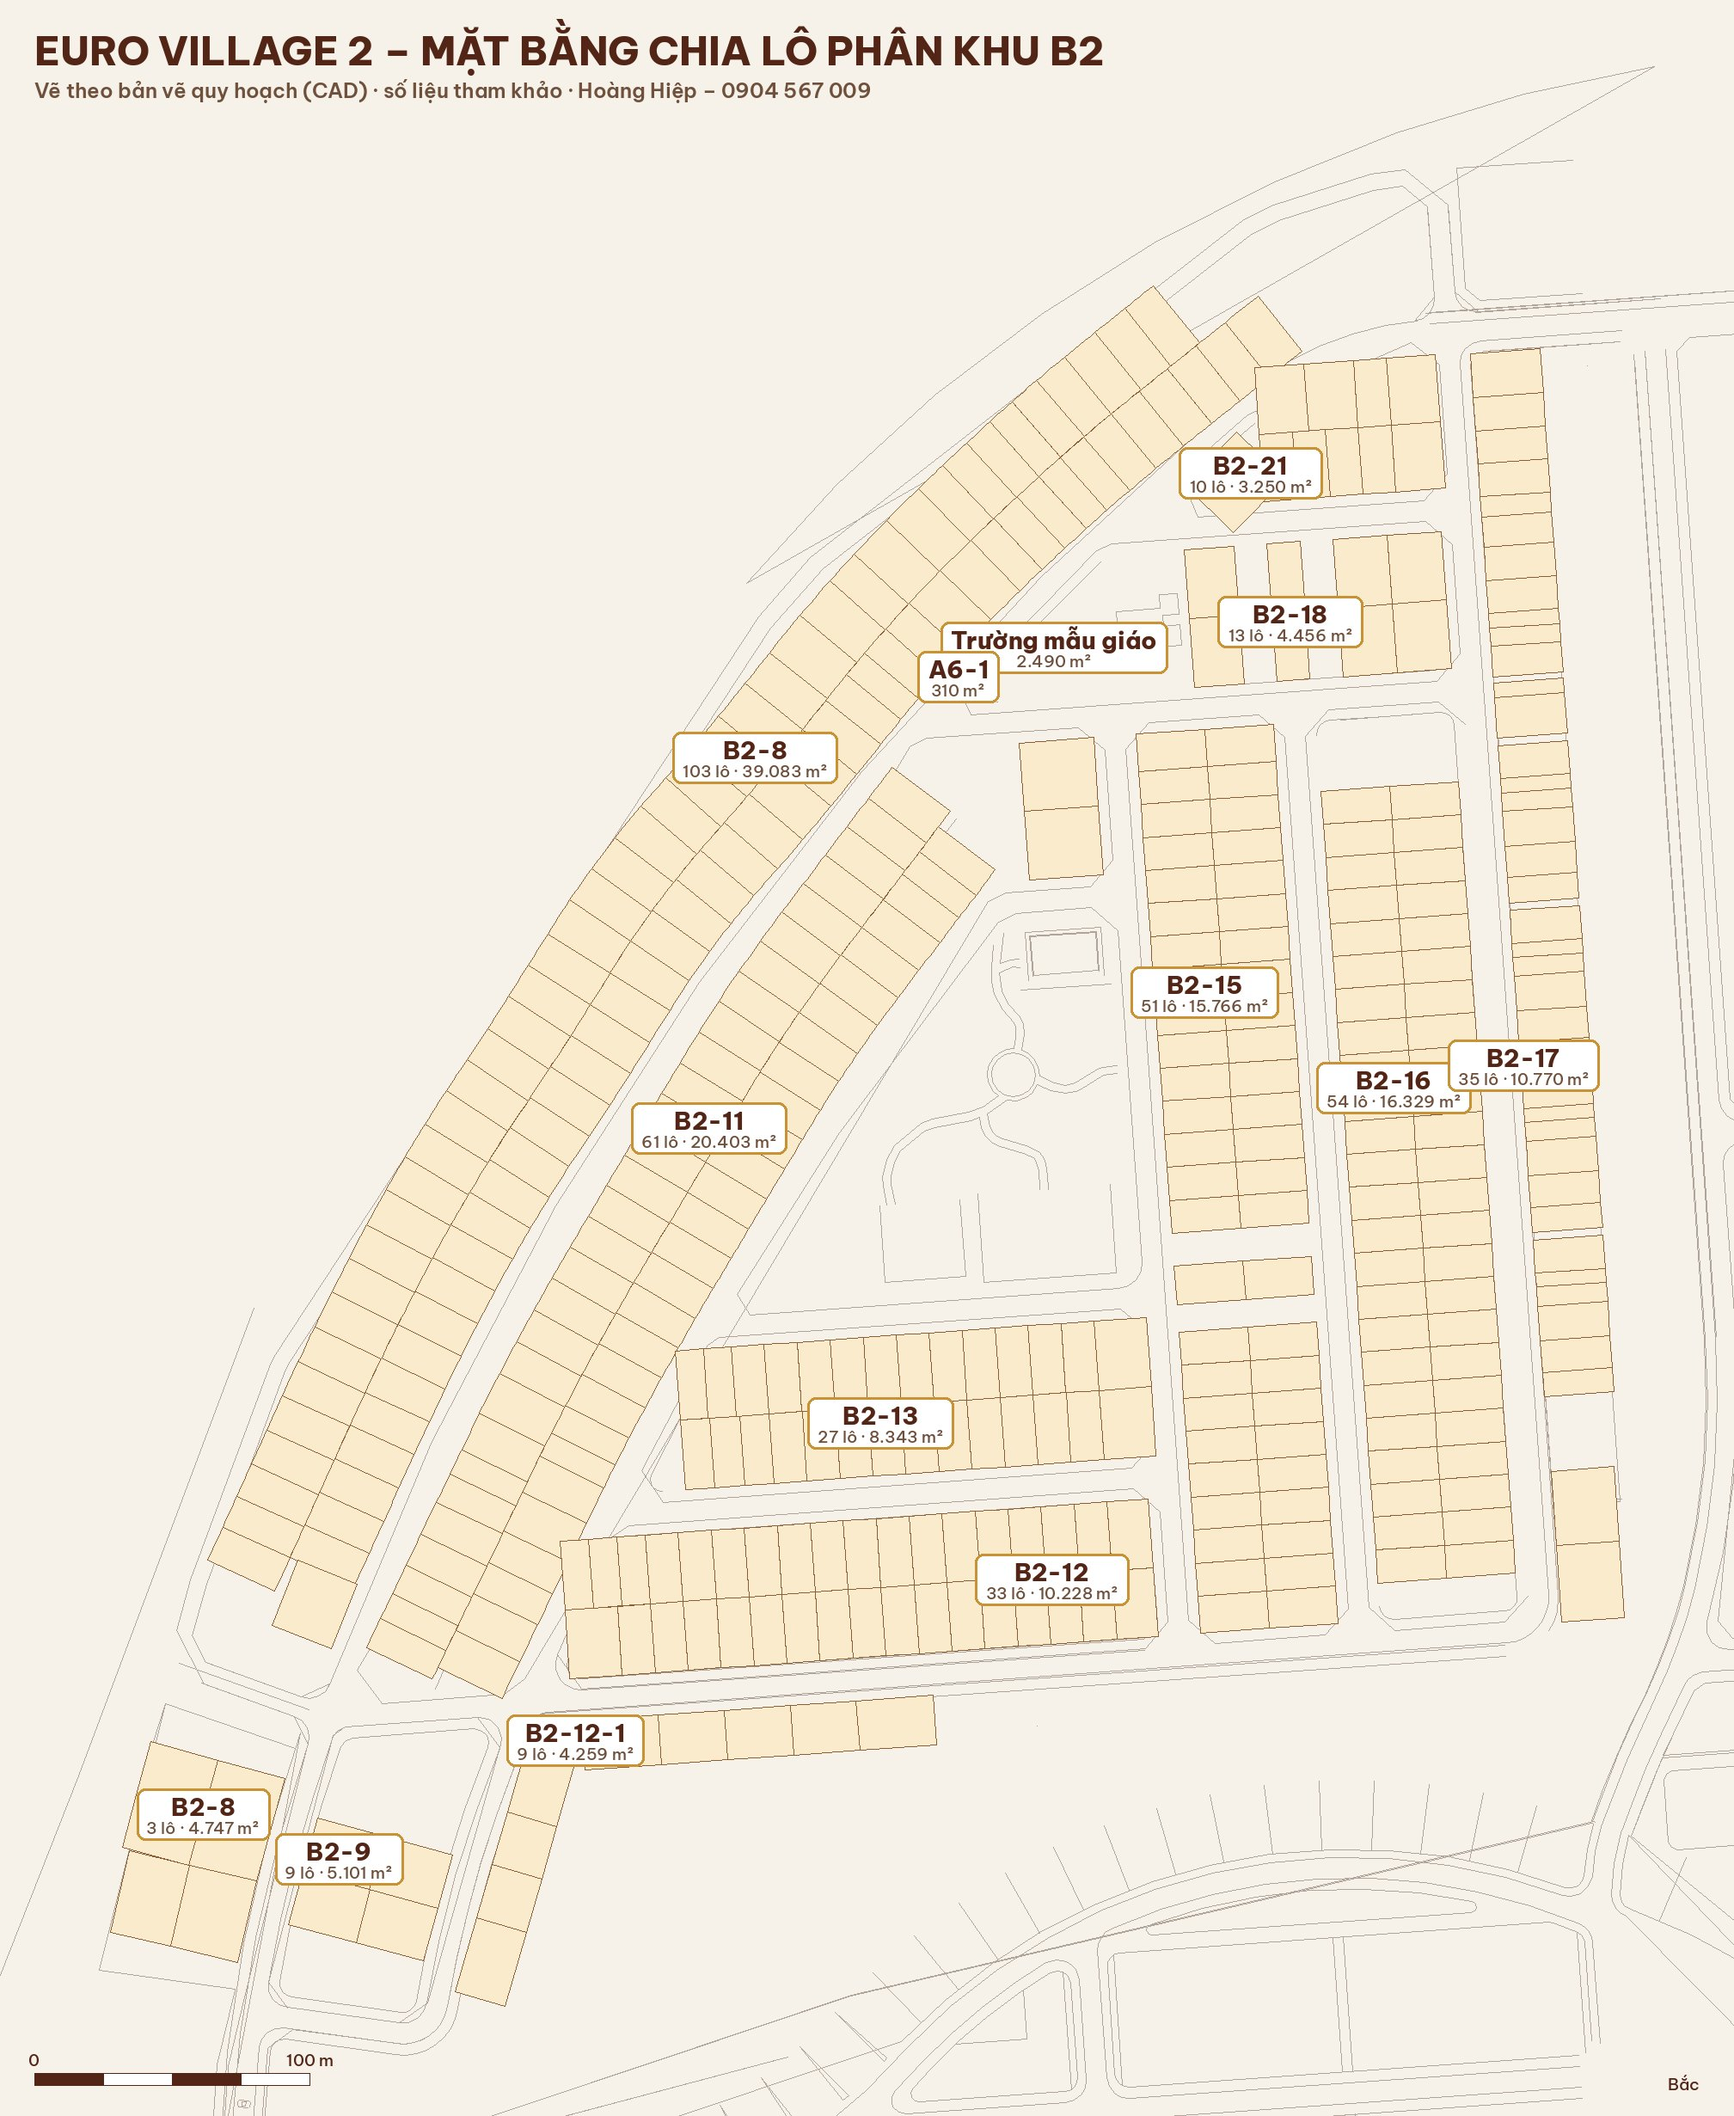
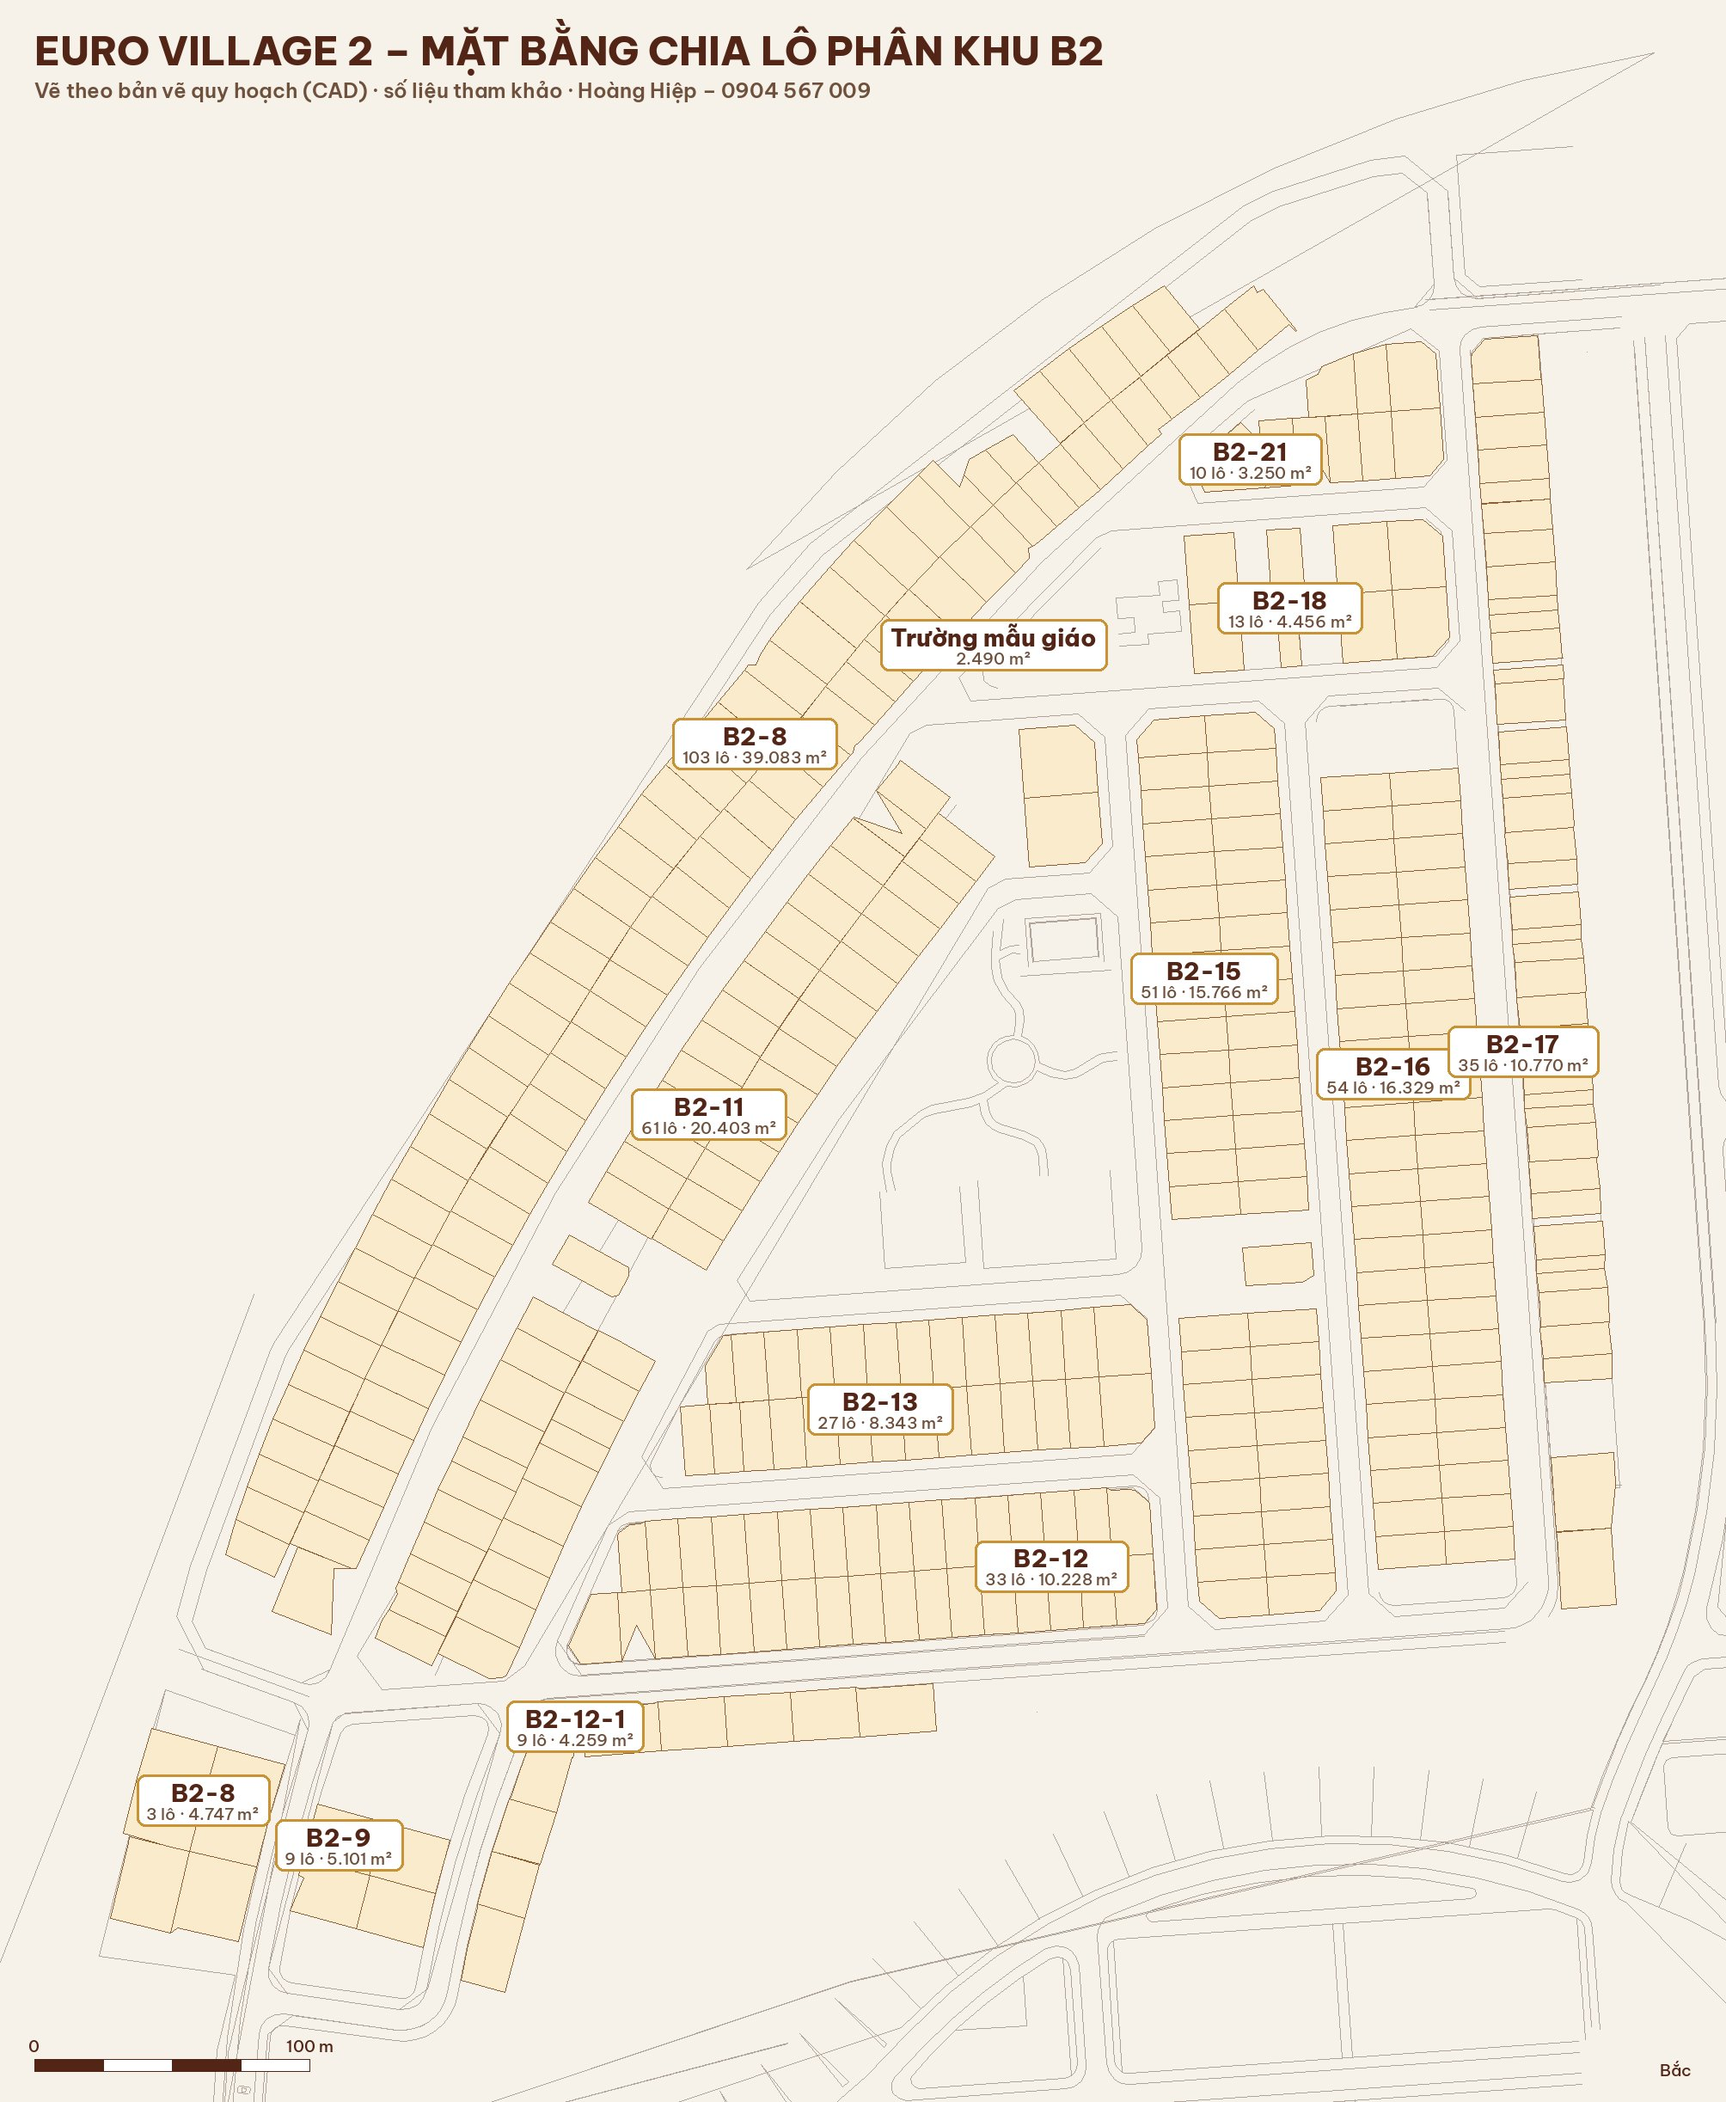
Euro Village 2: hết lô chồng nhau, lô không lấn đường (2.20.279)
Claude-Session: https://claude.ai/code/session_011HGb6VAzLiwbq5KWLxGuh9

diff --git a/wordpress/packaging/hoang-hiep-crm.php b/wordpress/packaging/hoang-hiep-crm.php
@@ -2,7 +2,7 @@
 /**
  * Plugin Name: Hoàng Hiệp CRM
  * Description: Dự án, nhà đất mua bán / cho thuê, khách hàng tiềm năng và dữ liệu dự án Đà Nẵng cho hiephoangmt.com. Dùng kèm giao diện Hoàng Hiệp.
- * Version: 2.20.278
+ * Version: 2.20.279
  * Author: Hoàng Hiệp
  * Requires PHP: 7.4
  */
@@ -14,7 +14,7 @@ if ( defined( 'HH_CRM_VERSION' ) ) {
 	return;
 }
 
-define( 'HH_CRM_VERSION', '2.20.278' );
+define( 'HH_CRM_VERSION', '2.20.279' );
 define( 'HH_CRM_DIR', __DIR__ . '/hh-crm/' );
 define( 'HH_CRM_URL', plugin_dir_url( __FILE__ ) . 'hh-crm/' );
 

diff --git a/wordpress/wp-content/mu-plugins/hh-crm.php b/wordpress/wp-content/mu-plugins/hh-crm.php
@@ -2,7 +2,7 @@
 /**
  * Plugin Name: Hoàng Hiệp CRM
  * Description: Dự án, nhà đất mua bán / cho thuê và khách hàng tiềm năng cho hiephoangmt.com.
- * Version: 2.20.278
+ * Version: 2.20.279
  * Author: Hoàng Hiệp
  */
 
@@ -13,7 +13,7 @@ if ( defined( 'HH_CRM_VERSION' ) ) {
 	return;
 }
 
-define( 'HH_CRM_VERSION', '2.20.278' );
+define( 'HH_CRM_VERSION', '2.20.279' );
 define( 'HH_CRM_DIR', __DIR__ . '/hh-crm/' );
 define( 'HH_CRM_URL', WPMU_PLUGIN_URL . '/hh-crm/' );
 

diff --git a/wordpress/GHI-CHU-CAP-NHAT.md b/wordpress/GHI-CHU-CAP-NHAT.md
@@ -1,6 +1,6 @@
 # Gói cập nhật hiephoangmt.com – 12/10/2026
 
-**File cài:** `hoang-hiep-tron-goi.zip` (giao diện Hoàng Hiệp **2.16.31** + plugin Hoàng Hiệp CRM **2.20.278**) · cập nhật nhanh bằng điện thoại: `cap-nhat-nhanh.zip`
+**File cài:** `hoang-hiep-tron-goi.zip` (giao diện Hoàng Hiệp **2.16.31** + plugin Hoàng Hiệp CRM **2.20.279**) · cập nhật nhanh bằng điện thoại: `cap-nhat-nhanh.zip`
 **Xem trước:** https://claude.ai/artifact/ACKuFhbbb8yj5VoU8Ty9X7 (riêng tư – bấm Chia sẻ nếu muốn gửi người khác)
 
 ## Cài đặt từng bước (khoảng 10 phút)
@@ -40,6 +40,10 @@ Hình minh hoạ từng bước: thư mục `huong-dan/` (cai-1 … cai-4, inter
 Kẹt ở bước nào: chụp màn hình gửi lại.
 
 Ô / bài anh đã tự sửa trong quản trị **không bị ghi đè** khi nhập dữ liệu.
+
+## Có gì mới – 2.20.279 (14/11/2026)
+
+- **Euro Village 2 – sửa lô chồng nhau, lấn đường:** không còn lô nào chồng lô khác; lô không vượt ra ngoài vùng lô của bản vẽ CAD (không lấn đường, vỉa hè). 372 lô; B2-12 (33), B2-13 (27), B2-12-1 (9) đã đủ đúng số lô bản vẽ.
 
 ## Có gì mới – 2.20.278 (14/11/2026)
 
